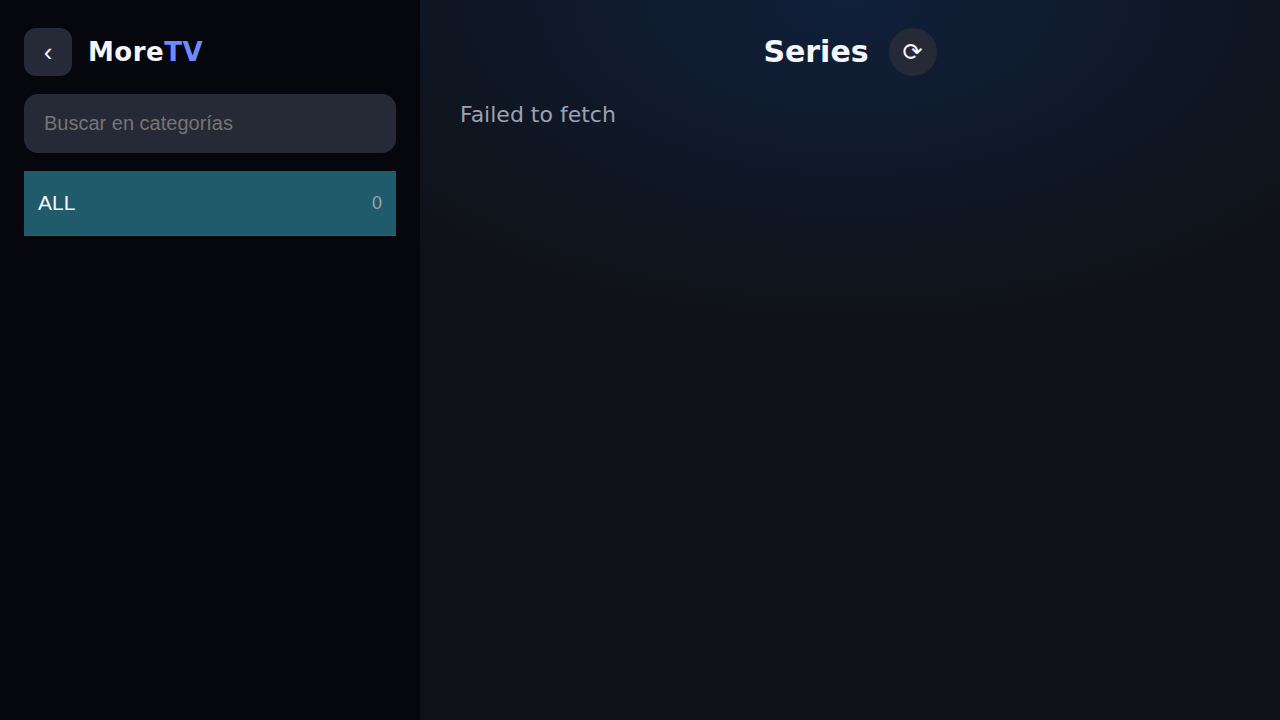
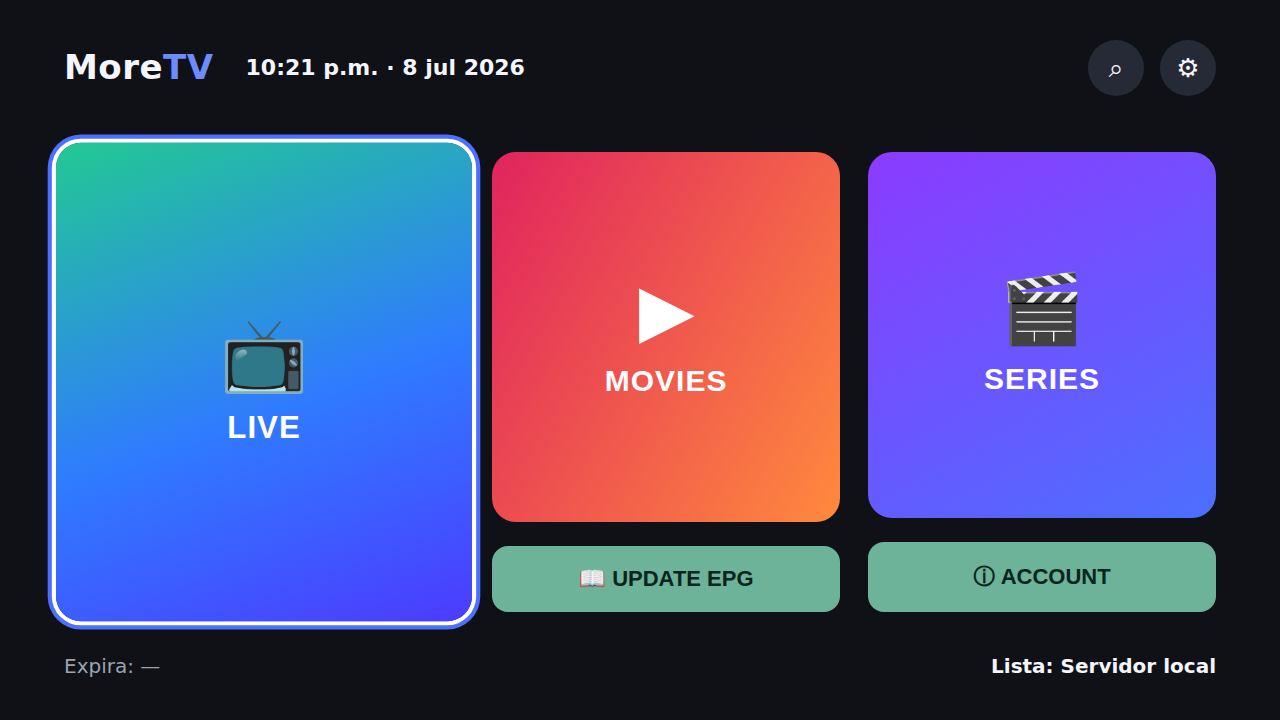
Añadir borrar lista en el selector (web + RN)
- Cada perfil del selector tiene botón '🗑 Borrar' con confirmación (web) /
  acción directa (RN). Pista aclara: seleccionar = cargar, '+ Añadir lista' = crear.
- Verificado E2E: borrar reduce el número de listas (1 → 0).

Claude-Session: https://claude.ai/code/session_01HrxLN5aKNoAfWMmyvpffWB

diff --git a/TV app/apps/web/src/App.tsx b/TV app/apps/web/src/App.tsx
@@ -1,6 +1,6 @@
 import { useCallback, useEffect, useState } from "react";
 import type { MediaItem, Playlist } from "@tvapp/core";
-import { addPlaylist, loadPlaylists } from "./storage.js";
+import { addPlaylist, loadPlaylists, removePlaylist } from "./storage.js";
 import { moveFocus, useRemote, type RemoteKey } from "./remote.js";
 import { PlaylistForm } from "./components/PlaylistForm.js";
 import { Dashboard, type Section } from "./components/Dashboard.js";
@@ -68,6 +68,13 @@ export function App() {
   /** Entra a un perfil, pidiendo PIN antes si está protegido. */
   function openProfile(p: Playlist) {
     setView(p.pin ? { screen: "pin", playlist: p } : { screen: "dashboard", playlist: p });
+  }
+
+  /** Borra una lista (con confirmación). */
+  function handleRemove(p: Playlist) {
+    if (window.confirm(`¿Borrar la lista "${p.name || p.url}"?`)) {
+      setPlaylists(removePlaylist(p.id));
+    }
   }
 
   switch (view.screen) {
@@ -210,38 +217,49 @@ export function App() {
 
           <div className="profiles">
             {playlists.map((p, i) => (
-              <button
-                key={p.id}
-                data-focusable
-                className="profile"
-                autoFocus={i === 0}
-                onClick={() => openProfile(p)}
-              >
-                <span className="profile__avatar" aria-hidden>
-                  <svg viewBox="0 0 100 100" width="120" height="120">
-                    <circle cx="50" cy="38" r="22" fill="#f0b48f" />
-                    <path d="M18 92c0-20 14-30 32-30s32 10 32 30z" fill="#6b8bff" />
-                  </svg>
-                </span>
-                {p.pin ? <span className="profile__lock" aria-label="Protegido">🔒</span> : null}
-                <span className="profile__name">{p.name || p.url}</span>
-              </button>
+              <div key={p.id} className="profile-wrap">
+                <button
+                  data-focusable
+                  className="profile"
+                  autoFocus={i === 0}
+                  onClick={() => openProfile(p)}
+                >
+                  <span className="profile__avatar" aria-hidden>
+                    <svg viewBox="0 0 100 100" width="120" height="120">
+                      <circle cx="50" cy="38" r="22" fill="#f0b48f" />
+                      <path d="M18 92c0-20 14-30 32-30s32 10 32 30z" fill="#6b8bff" />
+                    </svg>
+                  </span>
+                  {p.pin ? <span className="profile__lock" aria-label="Protegido">🔒</span> : null}
+                  <span className="profile__name">{p.name || p.url}</span>
+                </button>
+                <button
+                  data-focusable
+                  className="profile__del"
+                  title="Borrar lista"
+                  aria-label="Borrar lista"
+                  onClick={() => handleRemove(p)}
+                >
+                  🗑 Borrar
+                </button>
+              </div>
             ))}
 
-            <button
-              data-focusable
-              className="profile profile--add"
-              autoFocus={playlists.length === 0}
-              onClick={() => setView({ screen: "form" })}
-            >
-              <span className="profile__plus">+</span>
-              <span className="profile__name">Añadir lista</span>
-            </button>
+            <div className="profile-wrap">
+              <button
+                data-focusable
+                className="profile profile--add"
+                autoFocus={playlists.length === 0}
+                onClick={() => setView({ screen: "form" })}
+              >
+                <span className="profile__plus">+</span>
+                <span className="profile__name">Añadir lista</span>
+              </button>
+            </div>
           </div>
 
           <footer className="chooser__foot">
-            <p className="chooser__terms">Términos del servicio</p>
-            <p className="chooser__hint">Selecciona una lista para entrar.</p>
+            <p className="chooser__hint">Selecciona una lista para entrar · Añadir lista para crear una nueva.</p>
           </footer>
         </div>
       );

diff --git a/TV app/apps/tv/src/screens/ChooserScreen.tsx b/TV app/apps/tv/src/screens/ChooserScreen.tsx
@@ -3,7 +3,7 @@ import { Pressable, StyleSheet, Text, View } from "react-native";
 import Svg, { Circle, Path } from "react-native-svg";
 import type { Playlist } from "@tvapp/core";
 import { theme } from "../theme";
-import { loadPlaylists } from "../storage";
+import { loadPlaylists, removePlaylist } from "../storage";
 
 /** Selector de listas tipo perfil (equivalente a "CHOOSE YOUR PLAYLIST"). */
 export function ChooserScreen({
@@ -31,25 +31,34 @@ export function ChooserScreen({
 
       <View style={styles.profiles}>
         {playlists.map((p, i) => (
-          <Pressable
-            key={p.id}
-            hasTVPreferredFocus={i === 0}
-            style={({ focused }) => [styles.profile, focused && styles.focused]}
-            onPress={() => onOpen(p)}
-          >
-            {p.pin ? <Text style={styles.lock}>🔒</Text> : null}
-            <Avatar color={i % 2 === 0 ? theme.accent2 : "#8b3bff"} />
-            <Text style={styles.name}>{p.name || p.url}</Text>
-          </Pressable>
+          <View key={p.id} style={styles.wrap}>
+            <Pressable
+              hasTVPreferredFocus={i === 0}
+              style={({ focused }) => [styles.profile, focused && styles.focused]}
+              onPress={() => onOpen(p)}
+            >
+              {p.pin ? <Text style={styles.lock}>🔒</Text> : null}
+              <Avatar color={i % 2 === 0 ? theme.accent2 : "#8b3bff"} />
+              <Text style={styles.name}>{p.name || p.url}</Text>
+            </Pressable>
+            <Pressable
+              style={({ focused }) => [styles.del, focused && styles.focused]}
+              onPress={async () => setPlaylists(await removePlaylist(p.id))}
+            >
+              <Text style={styles.delText}>🗑 Borrar</Text>
+            </Pressable>
+          </View>
         ))}
-        <Pressable
-          hasTVPreferredFocus={playlists.length === 0}
-          style={({ focused }) => [styles.profile, styles.add, focused && styles.focused]}
-          onPress={onAdd}
-        >
-          <Text style={styles.plus}>+</Text>
-          <Text style={styles.name}>Añadir lista</Text>
-        </Pressable>
+        <View style={styles.wrap}>
+          <Pressable
+            hasTVPreferredFocus={playlists.length === 0}
+            style={({ focused }) => [styles.profile, styles.add, focused && styles.focused]}
+            onPress={onAdd}
+          >
+            <Text style={styles.plus}>+</Text>
+            <Text style={styles.name}>Añadir lista</Text>
+          </Pressable>
+        </View>
       </View>
     </View>
   );
@@ -71,7 +80,10 @@ const styles = StyleSheet.create({
   accent: { color: theme.accent2 },
   ver: { color: theme.muted, fontSize: 18 },
   title: { color: theme.text, fontSize: 34, fontWeight: "800", letterSpacing: 2, marginVertical: 44 },
-  profiles: { flexDirection: "row", gap: 40, flexWrap: "wrap", justifyContent: "center" },
+  profiles: { flexDirection: "row", gap: 40, flexWrap: "wrap", justifyContent: "center", alignItems: "flex-start" },
+  wrap: { alignItems: "center", gap: 12 },
+  del: { backgroundColor: theme.surface2, borderRadius: 999, paddingHorizontal: 22, paddingVertical: 10 },
+  delText: { color: theme.danger, fontSize: 18, fontWeight: "700" },
   profile: {
     width: 300,
     height: 320,

diff --git a/TV app/apps/web/src/styles.css b/TV app/apps/web/src/styles.css
@@ -261,6 +261,23 @@ body {
   gap: 40px;
   flex-wrap: wrap;
   justify-content: center;
+  align-items: flex-start;
+}
+.profile-wrap {
+  display: flex;
+  flex-direction: column;
+  align-items: center;
+  gap: 12px;
+}
+.profile__del {
+  border: none;
+  background: var(--surface-2);
+  color: var(--danger);
+  font-size: 18px;
+  font-weight: 700;
+  border-radius: 999px;
+  padding: 10px 22px;
+  cursor: pointer;
 }
 .profile {
   width: 300px;
